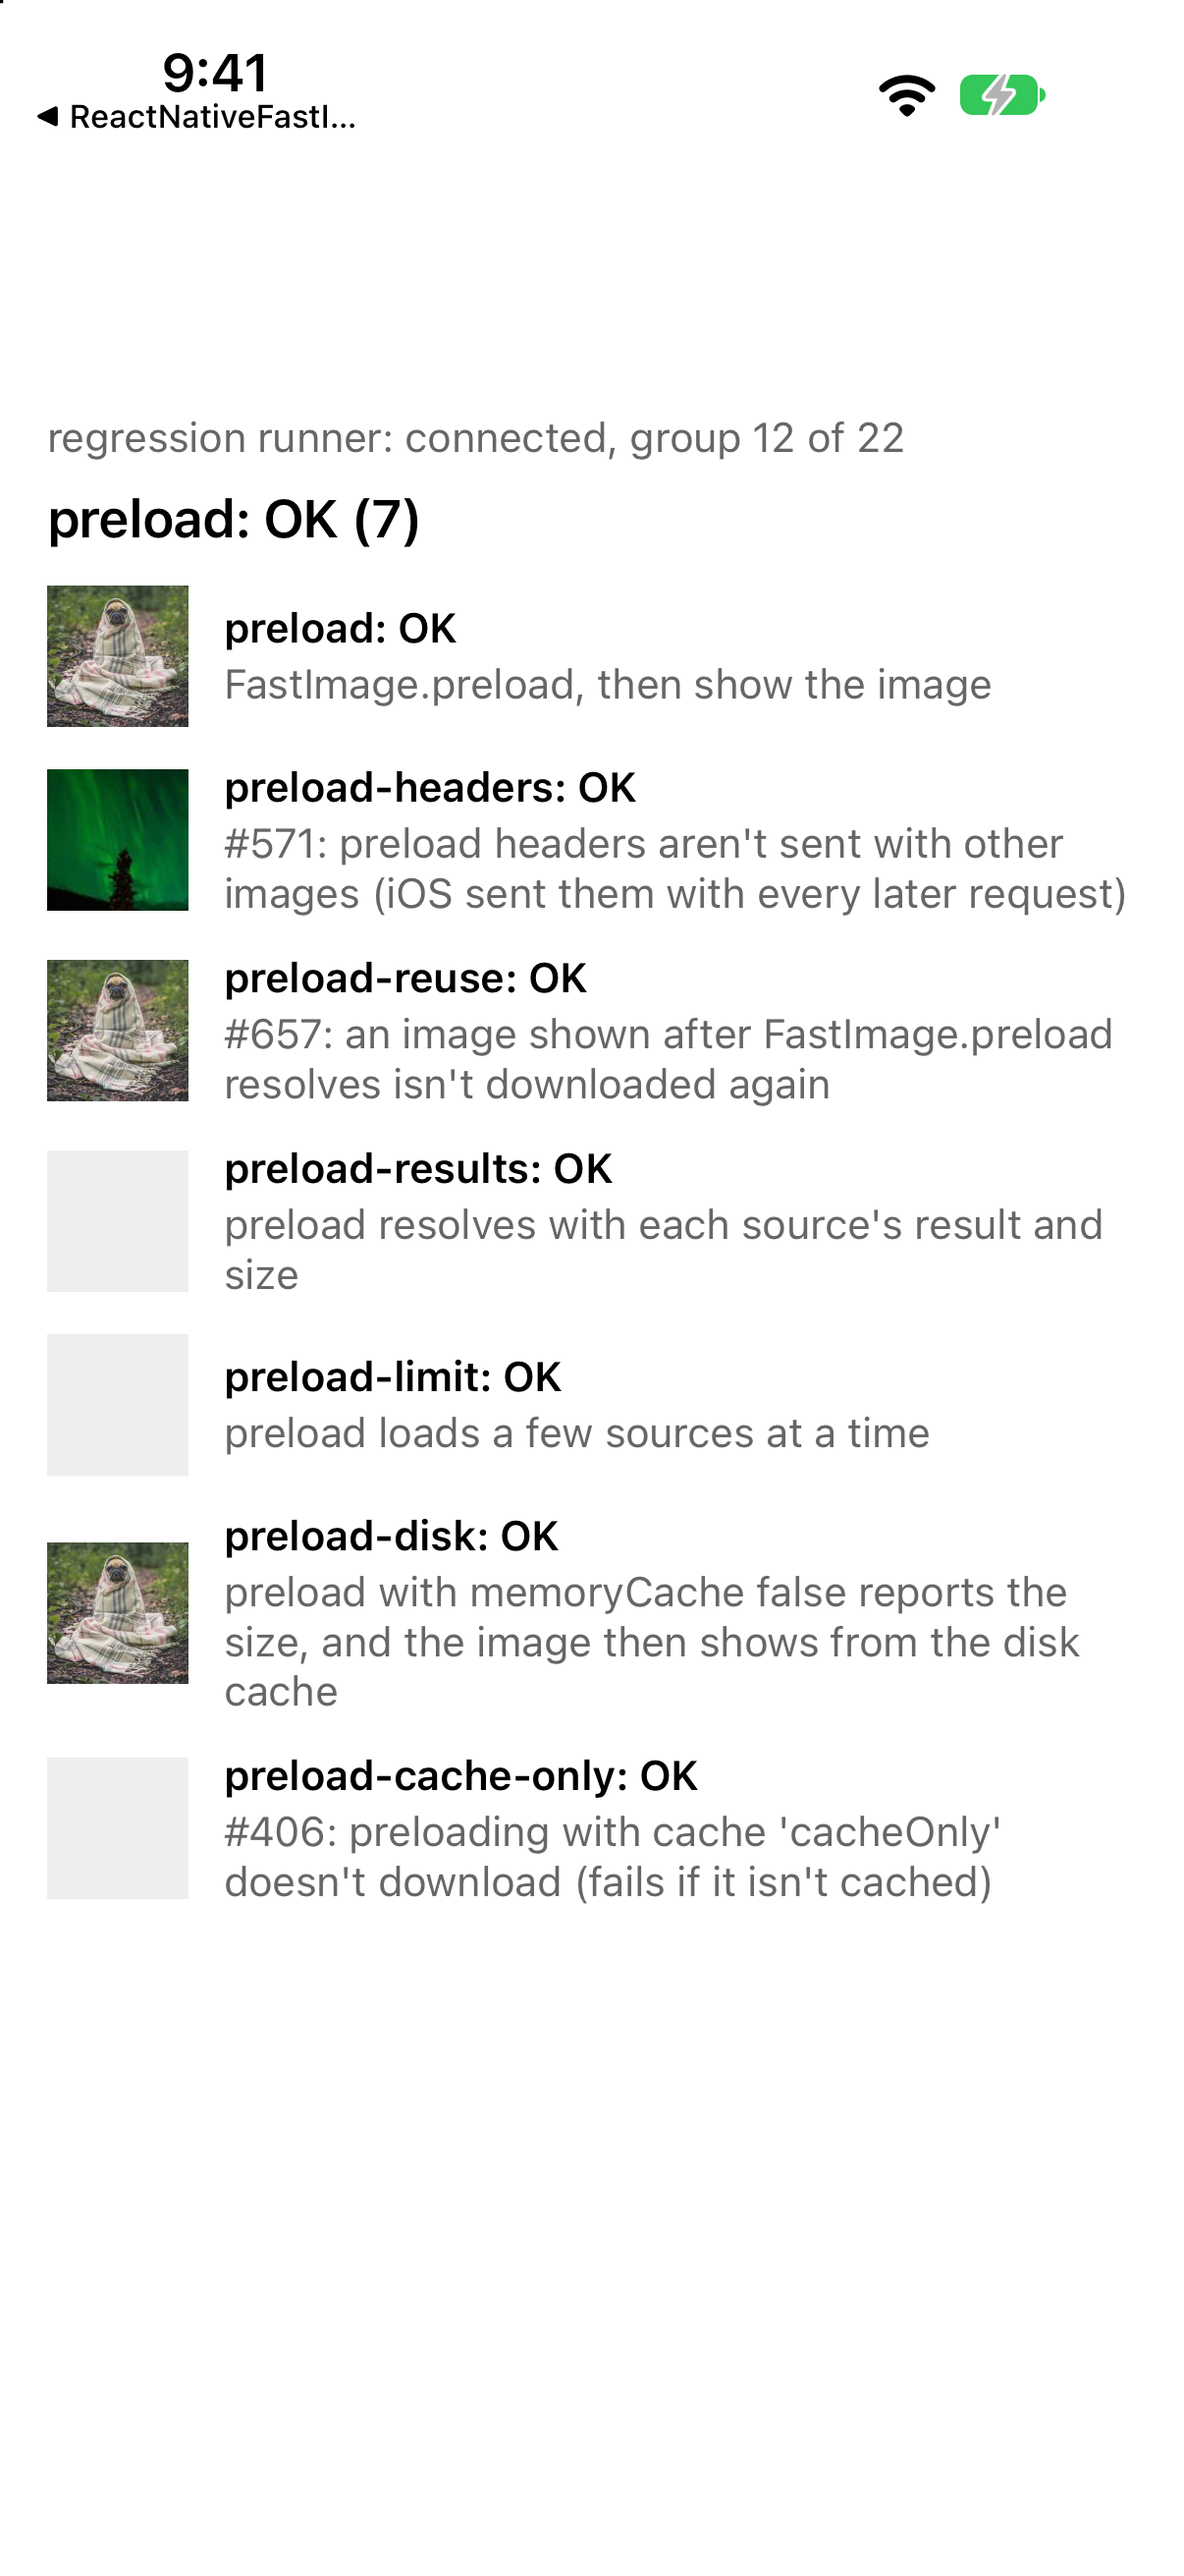
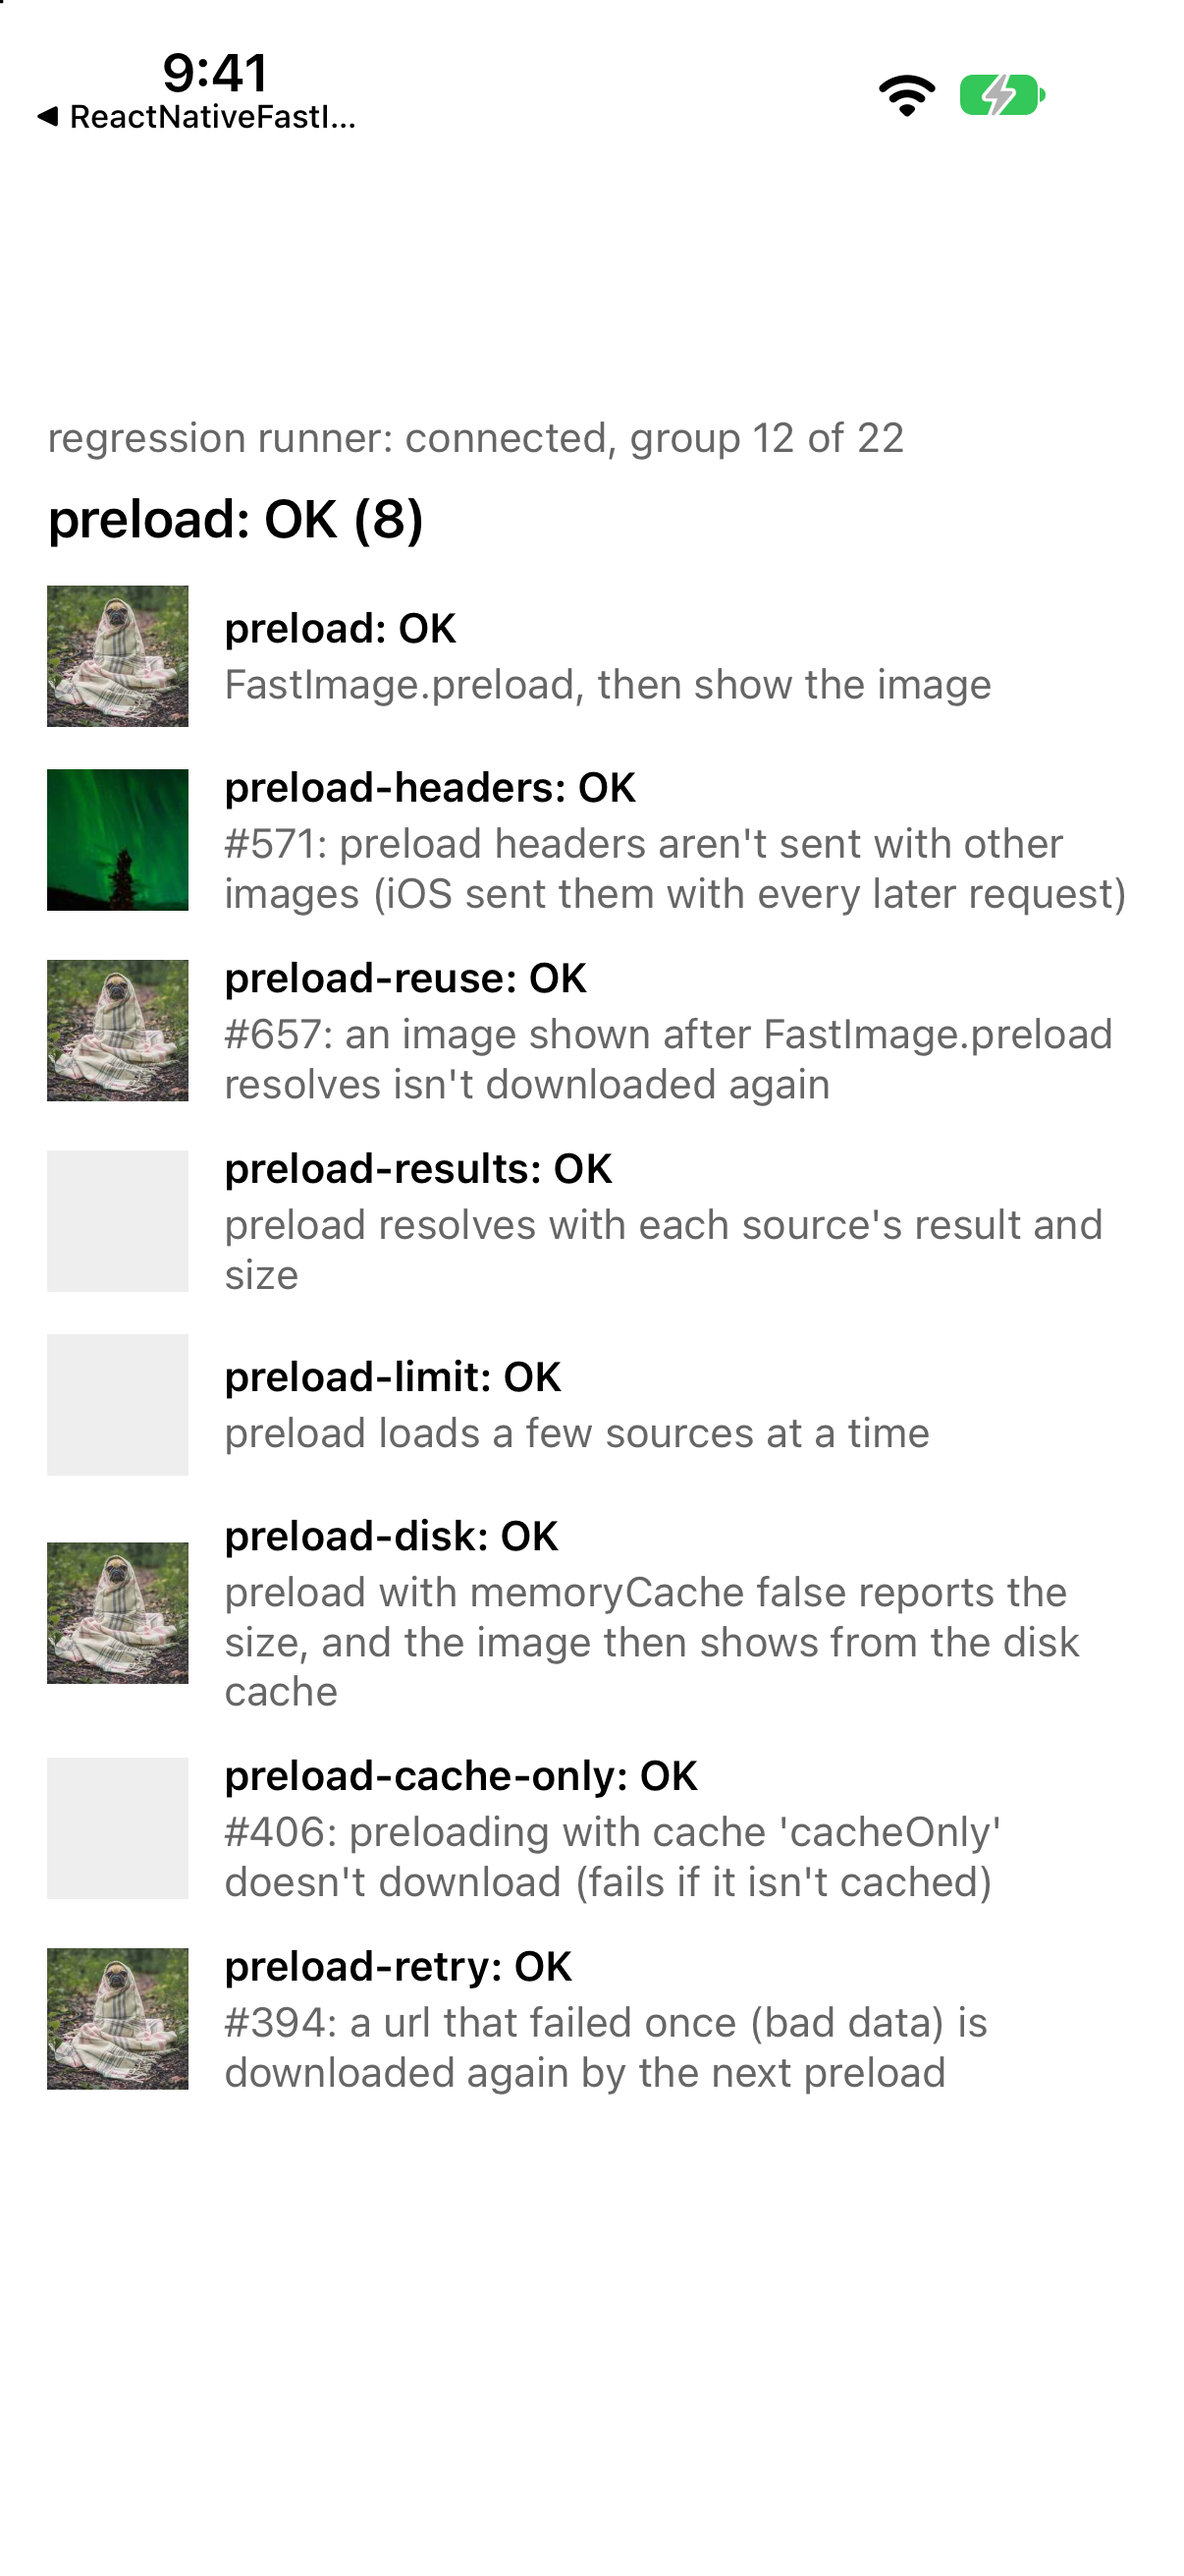
fix(ios): try failed urls again in preload (#1177)

Changed region(s): [[0.0307, 0.7414, 0.7977, 0.8341], [0.3068, 0.1854, 0.3682, 0.2162]]

diff --git a/ReactNativeFastImageExample/src/RegressionExample.tsx b/ReactNativeFastImageExample/src/RegressionExample.tsx
@@ -1263,6 +1263,56 @@ function CacheKeyCase({
     )
 }
 
+// Preloads a url that first gets data that isn't an image (which SDWebImage
+// remembers as a failed url), then preloads it again: the second preload
+// downloads it and succeeds. iOS failed it without a request until the app
+// was relaunched (#394), since views retry failed urls but preloads didn't.
+// iOS only for now: Android keeps the first response (not an image) in
+// Glide's disk cache, so the second preload fails too (to fix next).
+const PRELOAD_RETRY_PATH = `/bad-once/picsum/1025-200x200.jpg?retry=${RUN}`
+function PreloadRetryCase() {
+    const [status, setStatus] = useState('waiting')
+    const [shown, setShown] = useState(false)
+    const source = { uri: imageUrl(PRELOAD_RETRY_PATH.slice(1)) }
+    useEffect(() => {
+        const run = async () => {
+            const [first] = await FastImage.preload([source])
+            if (first.ok) return setStatus('the first preload loaded')
+            const [second] = await FastImage.preload([source])
+            const response = await fetch(
+                imageUrl(
+                    `requests?path=${encodeURIComponent(PRELOAD_RETRY_PATH)}`,
+                ),
+            )
+            const { count } = (await response.json()) as { count: number }
+            if (!second.ok) return setStatus(`retry failed: ${second.error}`)
+            if (count !== 2) return setStatus(`${count} requests`)
+            setShown(true)
+        }
+        run().catch((e) => setStatus(`error: ${e}`))
+        // Only on mount.
+        // eslint-disable-next-line react-hooks/exhaustive-deps
+    }, [])
+    return (
+        <View style={styles.row}>
+            {shown ? (
+                <FastImage
+                    style={styles.image}
+                    source={source}
+                    onLoad={() => setStatus('OK')}
+                />
+            ) : (
+                <View style={styles.image} />
+            )}
+            <CaseStatus
+                id="preload-retry"
+                status={status}
+                description="#394: a url that failed once (bad data) is downloaded again by the next preload"
+            />
+        </View>
+    )
+}
+
 // Preloads an image that isn't cached with `cache: 'cacheOnly'`: it fails
 // without a request to the server, as a view with it does. iOS downloaded it
 // (preload didn't follow `cache`, #406).
@@ -2541,6 +2591,9 @@ export const REGRESSION_GROUPS: RegressionGroup[] = [
             <PreloadLimitCase key="preload-limit" />,
             <PreloadDiskCase key="preload-disk" />,
             <PreloadCacheOnlyCase key="preload-cache-only" />,
+            ...(Platform.OS === 'ios'
+                ? [<PreloadRetryCase key="preload-retry" />]
+                : []),
         ],
     },
     {

diff --git a/ReactNativeFastImageExampleServer/server.ts b/ReactNativeFastImageExampleServer/server.ts
@@ -15,6 +15,8 @@
 //   /cookie/    403 unless the request has both cookies from /set-cookie with
 //               the same `run` query parameter; the image is sent with its own
 //               cookie (`fast-image-image=<run>`).
+//   /bad-once/  The first request for a path and query gets data that isn't an
+//               image (with an image type), later ones the image.
 //
 // GET /set-cookie?run=<run> sets two cookies (`fast-image-a=<run>` and
 // `fast-image-b=<run>`; a new run value each time, so cookies kept from
@@ -153,6 +155,13 @@ const server = Bun.serve({
             }
             setCookie = `fast-image-image=${run}; Path=/`
             pathname = pathname.slice('/cookie'.length)
+        } else if (pathname.startsWith('/bad-once/')) {
+            if (requests.get(key) === 1) {
+                return new Response('not an image', {
+                    headers: { 'Content-Type': 'image/jpeg' },
+                })
+            }
+            pathname = pathname.slice('/bad-once'.length)
         }
         const file = path.join(IMAGES, decodeURIComponent(pathname))
         if (!file.startsWith(IMAGES + path.sep)) {

diff --git a/ios/FastImage/FFFastImageViewManager.m b/ios/FastImage/FFFastImageViewManager.m
@@ -107,7 +107,10 @@ RCT_EXPORT_METHOD(preload:(nonnull NSArray<FFFastImageSource *> *)sources
             }
             [results addObject:[NSNull null]];
             // A source's own priority replaces the prefetcher's, as on Android.
-            SDWebImageOptions options = prefetcherOptions;
+            // Failed urls are tried again, as views do (SDWebImage otherwise
+            // fails a url that failed before, e.g. with data that isn't an
+            // image, without a request until the app is relaunched, #394).
+            SDWebImageOptions options = prefetcherOptions | SDWebImageRetryFailed;
             if (source.hasPriority) {
                 options &= ~(SDWebImageLowPriority | SDWebImageHighPriority);
                 if (source.priority == FFFPriorityLow) {
